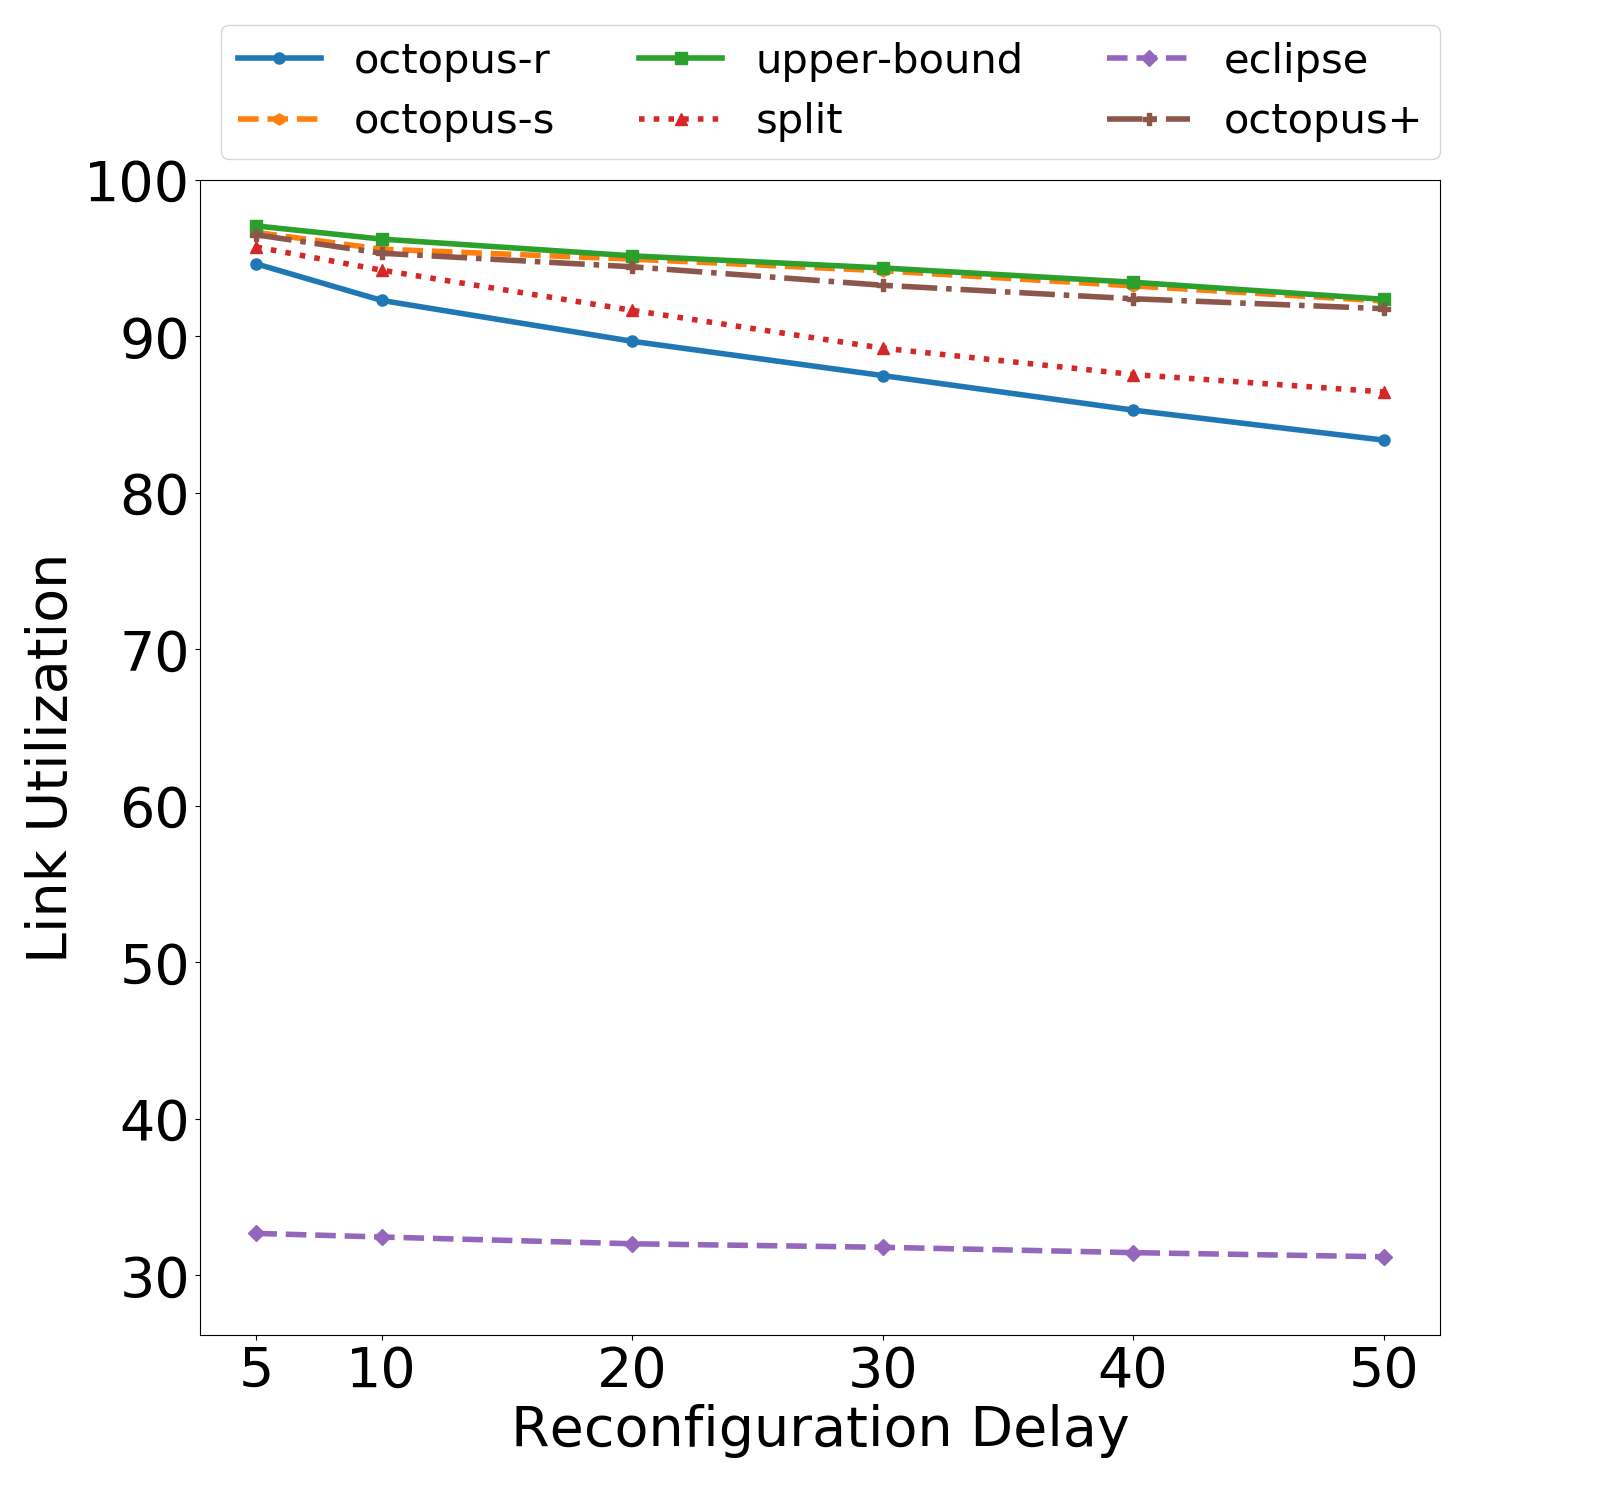
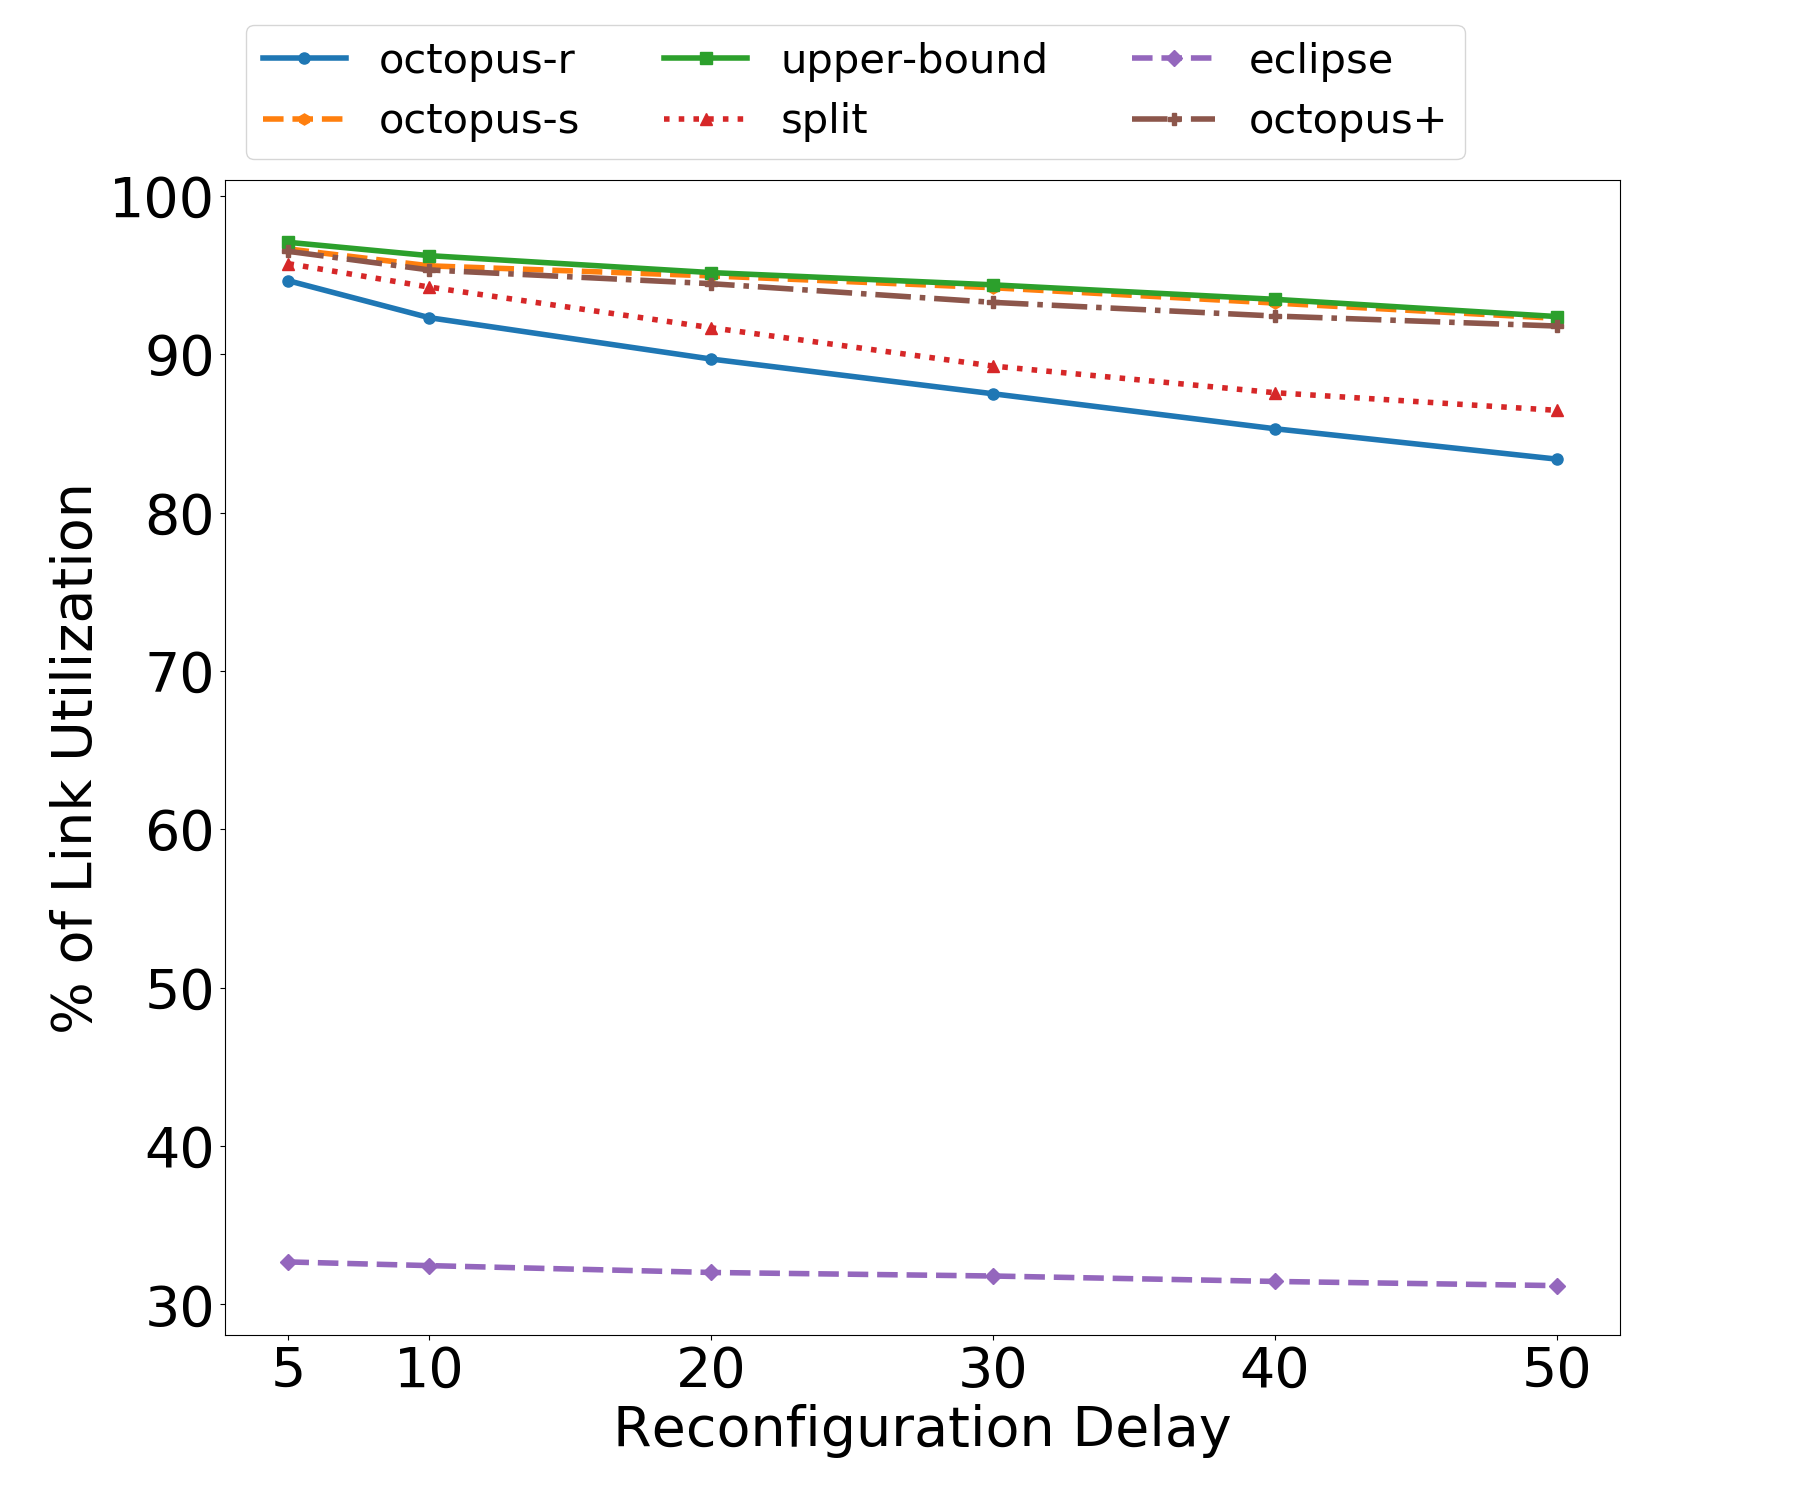
update

diff --git a/table.py b/table.py
@@ -5,8 +5,8 @@ import matplotlib.pyplot as plt
 import tabulate
 
 METHODS = ['octopus-r', 'octopus-s', 'upper-bound', 'split', 'eclipse', 'octopus+']
-METRIC  = ['percent_packets_delivered', 'link_utilization', 'objective_value', 'percent_objective_value']
-METRIC_ = ['% of Packets Deliverd',     'Link Utilization', 'Objective Value', '% of Objectetive Value']
+METRIC  = ['percent_packets_delivered', 'link_utilization',      'objective_value', 'percent_objective_value']
+METRIC_ = ['% of Packets Deliverd',     '% of Link Utilization', 'Objective Value', '% of Objectetive Value']
 
 def getMetric(inpt, output, metric = 'percent_objective_value'):
 	if metric == 'percent_packets_delivered':
@@ -41,11 +41,11 @@ def plot_line(table, method, filename=None, x_label=None, y_label=None):
 		Y.append(y)
 	for i in range(0, num):
 		plt.plot(X, Y[i], linestyle=linestyles[i], linewidth=4, marker=markers[i], markersize=8, label=method[i])
-	
+
 	plt.xticks(X)
 	y_min = np.min(np.min(table, 0)[1:])*0.9
 	y_max = np.max(np.max(table, 0)[1:])
-	y_max = 100 if y_max <= 100 else y_max*1.02
+	y_max = 101 if y_max <= 100 else y_max*1.02
 	plt.ylim([y_min, y_max])
 	plt.legend(bbox_to_anchor=(0., 1.), loc='lower left', ncol=3, fontsize=30)
 
@@ -64,7 +64,7 @@ if __name__ == '__main__':
 
 	data = runner.readDataFromFile('data/6-20/first_run.txt')
 
-	for i in range(2, len(METRIC)):
+	for i in range(0, len(METRIC)):
 		# Reconfig Delta test
 		rd_table = {}
 		for inpt, output_by_method in data:
